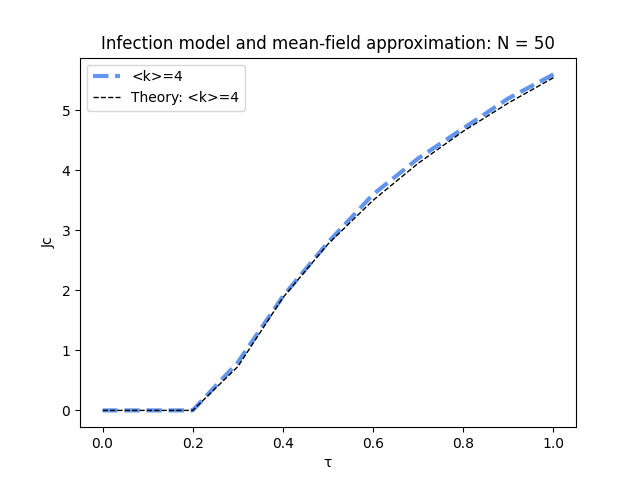
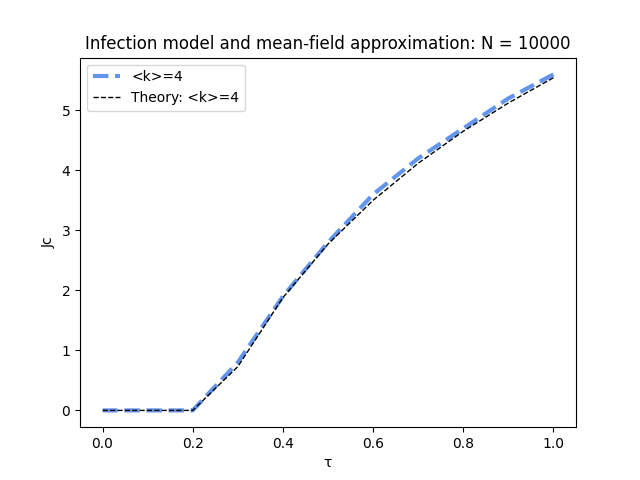
save csv and plot results

Changed region(s): [[0.125, 0.0625, 0.9062, 0.125]]

diff --git a/main.py b/main.py
@@ -66,7 +66,7 @@ def mean_field_test():
 
 # TODO Test with different values of k and different number of nodes and initial infected
 def simple_percolation_test():
-    test = "SIM/"
+    test = "SIM/"+str(n_nodes)+"/"
     results = {}
 
     # RANDOM GRAPH WITH K
@@ -108,7 +108,7 @@ def simple_percolation_test():
 
 
 def percolation_test():
-    test = "PERC/"
+    test = "PERC/"+str(n_nodes)+"/"
     results = {}
 
     # RANDOM GRAPH WITH K
@@ -140,7 +140,7 @@ def percolation_test():
 
 
 def multiplex_percolation_test():
-    test = "MUL/"
+    test = "MUL/"+str(n_nodes)+"/"
 
     PG, VG = random_graph_test(n_nodes, pPG=prob_k, pVG=prob_k)
     graph_type = "Poisson <k>=" + str(k)
@@ -169,9 +169,9 @@ def main():
     # test_graphs()
 
     # TESTS
-    # mean_field_test()
-    # simple_percolation_test()
-    # percolation_test()
+    mean_field_test()
+    simple_percolation_test()
+    percolation_test()
     multiplex_percolation_test()
 
 

diff --git a/src/config.py b/src/config.py
@@ -3,17 +3,17 @@ from src.utils import *
 
 # Values for the tests
 step = 0.1  # Step for the values
-max_j = 100
+max_j = 1000  # Maximum value for the risk perception
 js = np.arange(0, max_j, step)  # Risk perception
-ts = np.arange(0, 1+step, step)  # Tau values
-qs = np.arange(0, 1+step, step)  # Connection probability for Information Graph
+ts = np.arange(0, 1 + step, step)  # Tau values
+qs = np.arange(0, 1 + step, step)  # Connection probability for Information Graph
 
-iterations = 1000  # Iteration
+iterations = 10000  # Iteration
 zero_threshold = 1e-4  # Zero threshold
 eps = 1e-4  # Epsilon
 
 # Values for the graph
-n_nodes = 50 # Number of nodes
+n_nodes = 10000  # Number of nodes
 k = 3  # Number of edges to attach from a new node
 prob_k = k / n_nodes  # Probability for random graph
 

diff --git a/src/percolation.py b/src/percolation.py
@@ -170,8 +170,8 @@ def multiplex_percolation(IG: nx.DiGraph, PG: nx.graph, tau: float, T: int) -> f
     """
 
     # Initialize J values for each node
-    # j_values = {node: float('inf') for node in PG.nodes()}
-    j_values = {node: np.random.uniform(max_j, max_j+1) for node in PG.nodes()}
+    j_values = {node: float('inf') for node in PG.nodes()}
+    # j_values = {node: np.random.uniform(max_j, max_j+1) for node in PG.nodes()}
 
     for _ in range(T):
         cj = j_values.copy()
